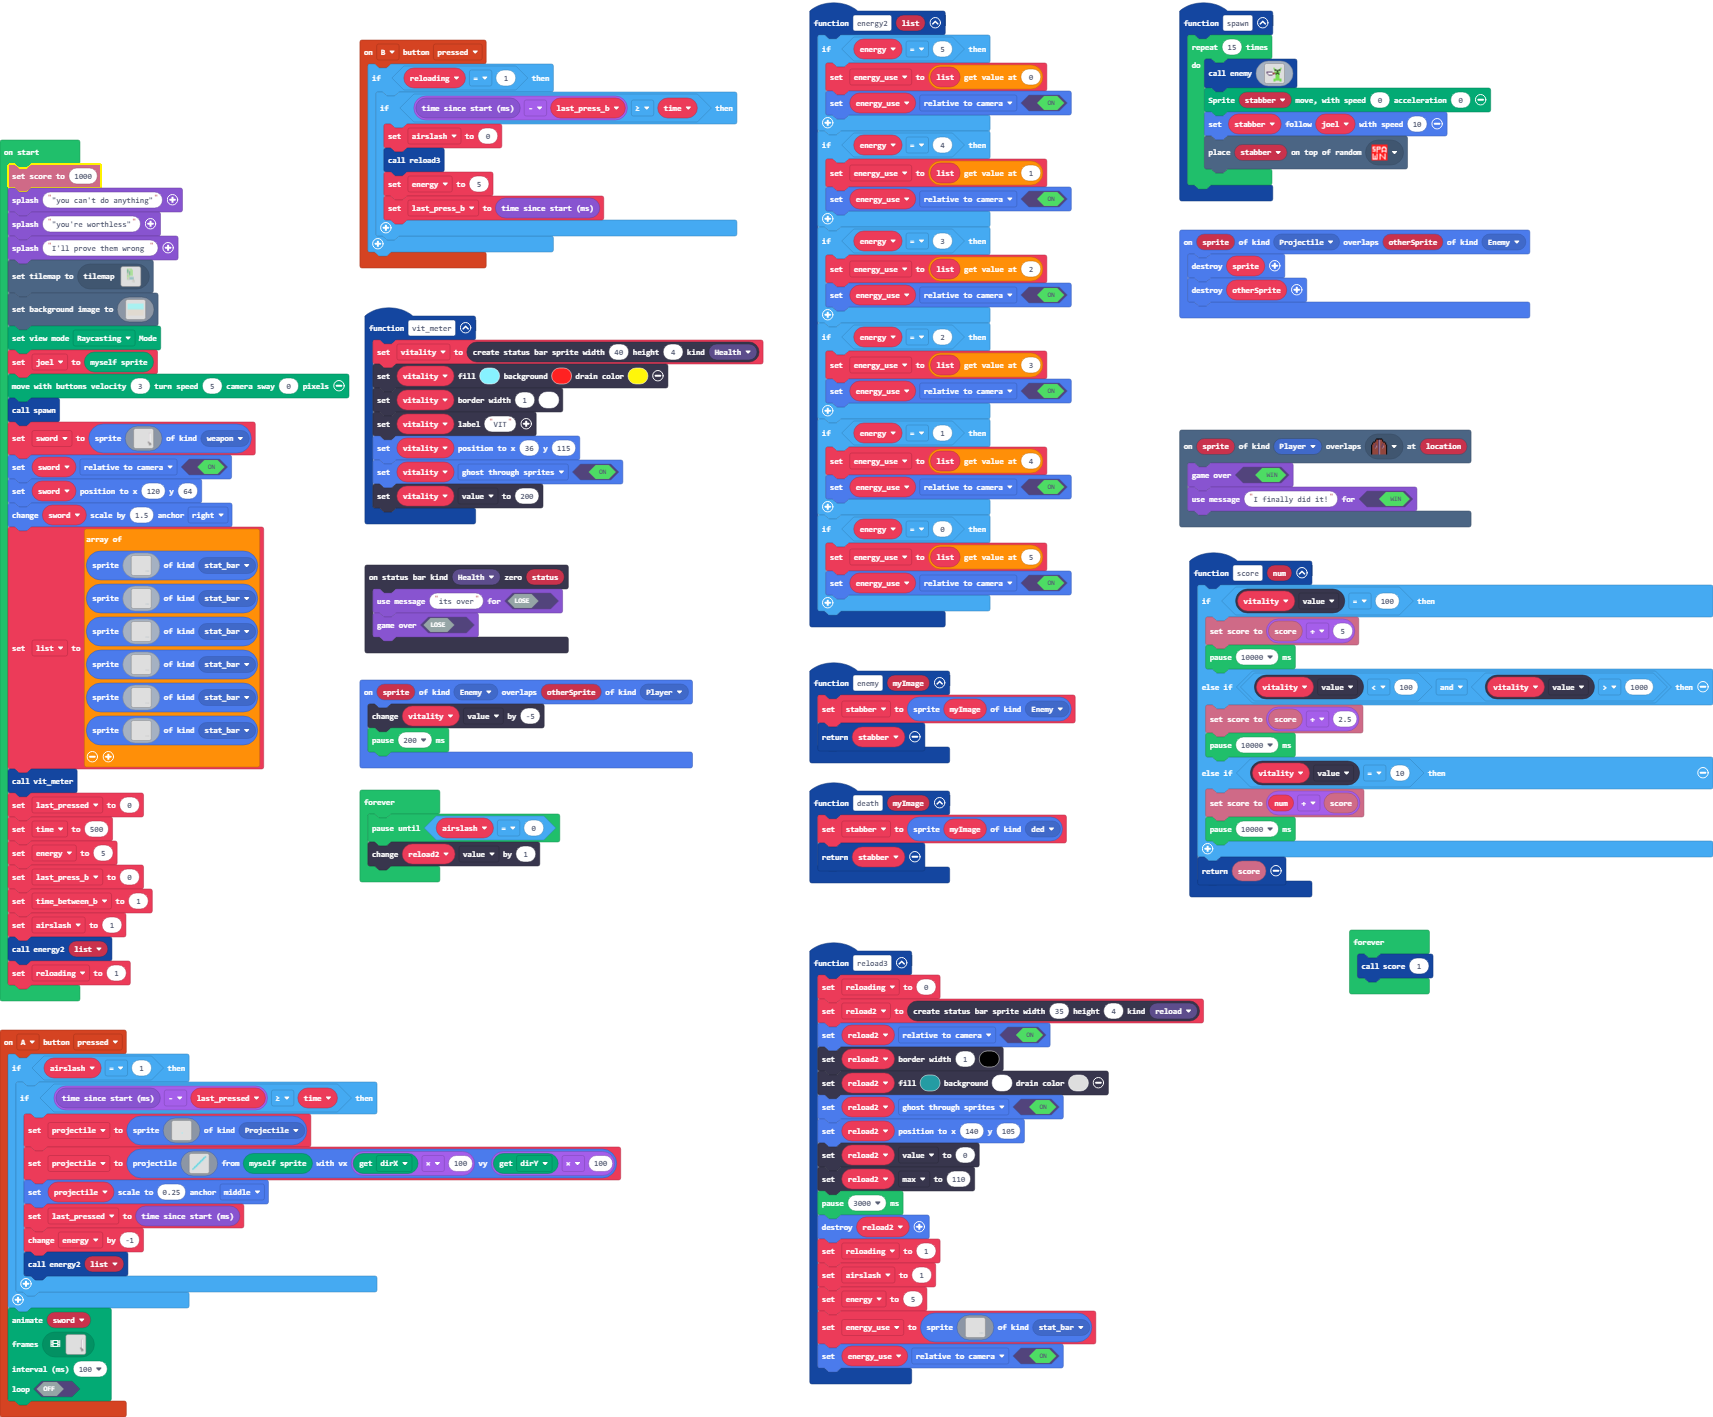
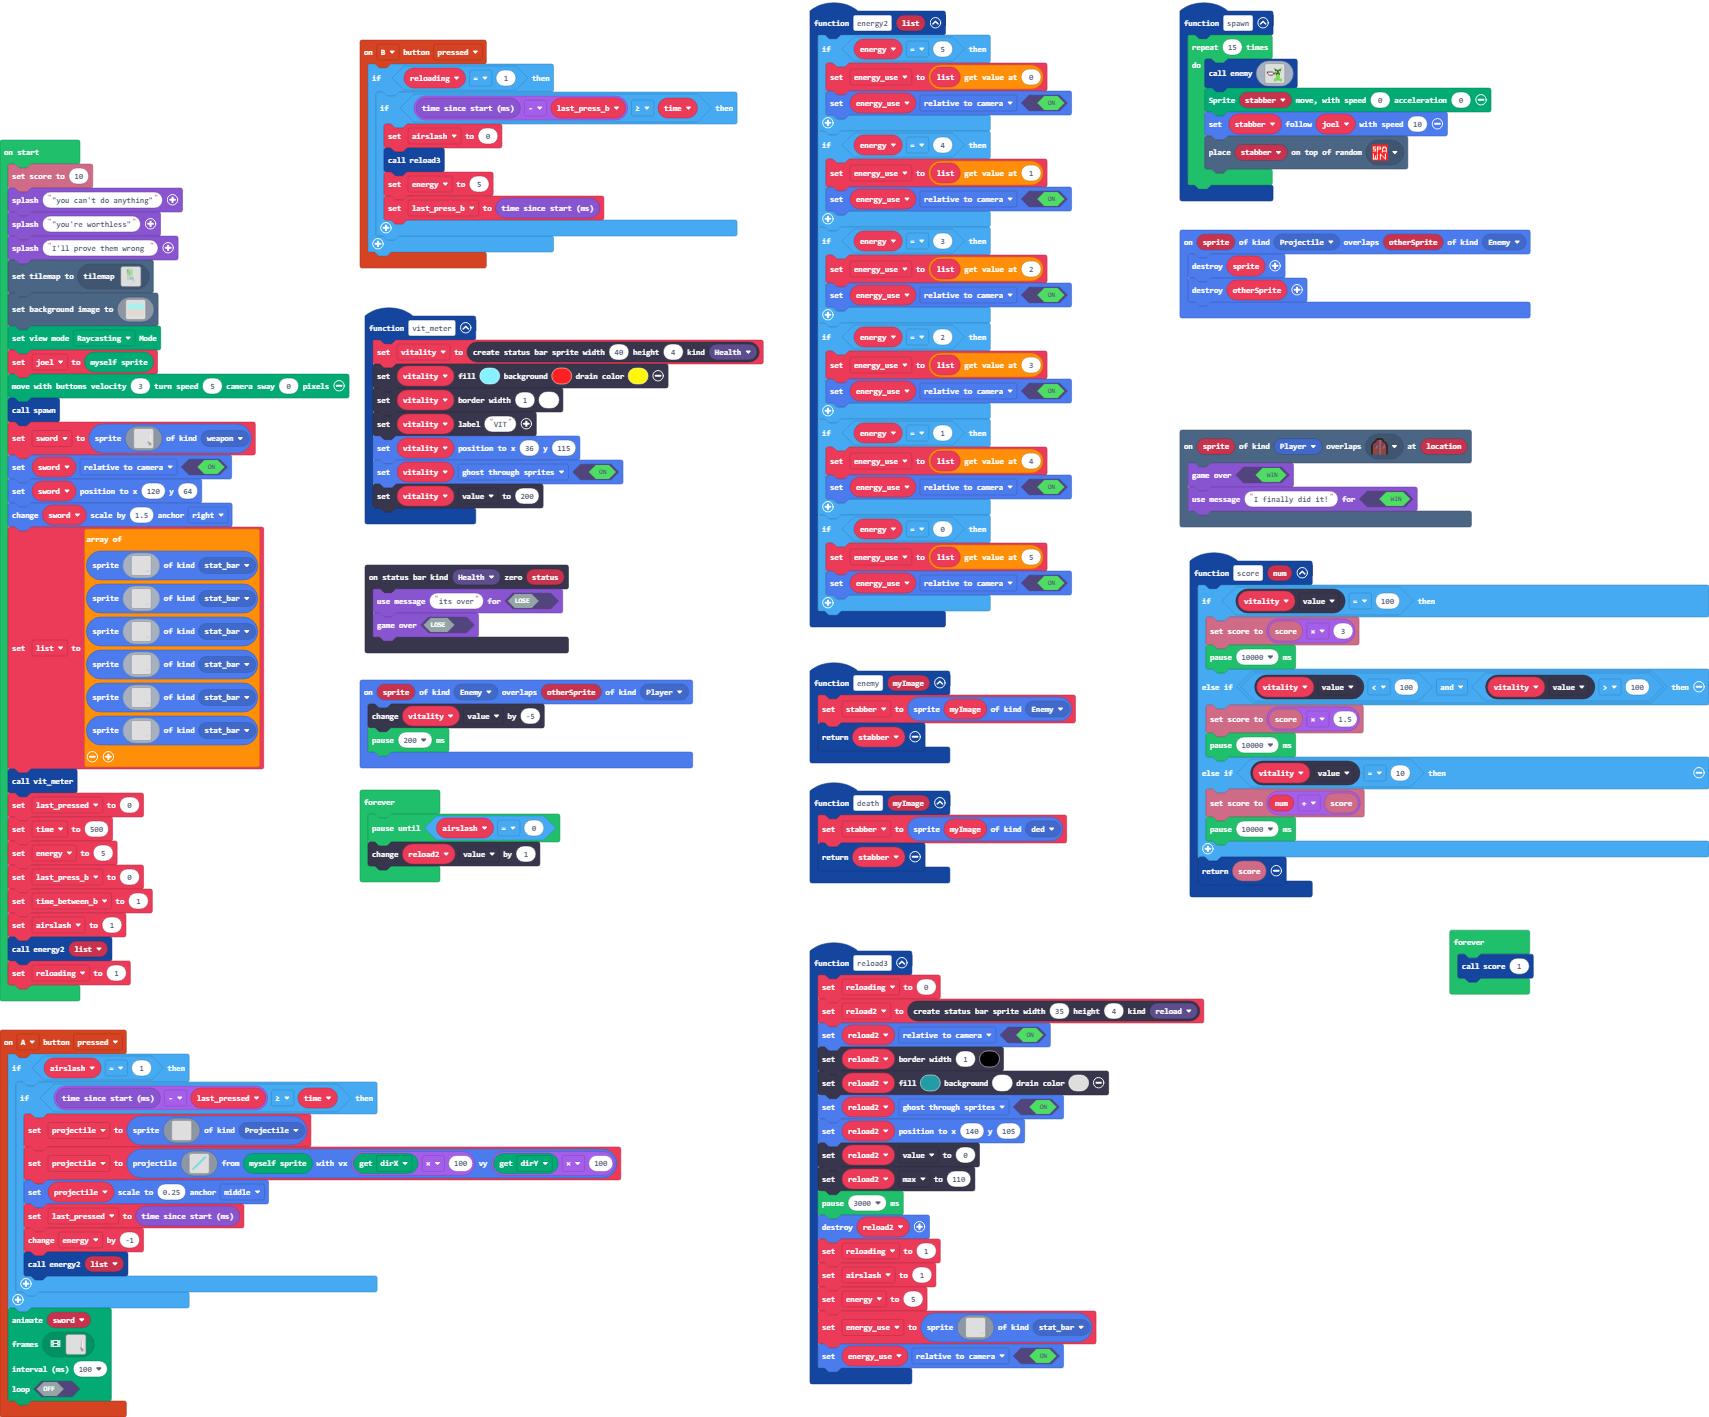
Update main.blocks, main.ts

diff --git a/main.ts b/main.ts
@@ -84,10 +84,10 @@ function death (myImage: Image) {
 }
 function score (num: number) {
     if (vitality.value == 100) {
-        info.setScore(info.score() + 5)
+        info.setScore(info.score() * 3)
         pause(10000)
-    } else if (vitality.value < 100 && vitality.value > 1000) {
-        info.setScore(info.score() + 2.5)
+    } else if (vitality.value < 100 && vitality.value > 100) {
+        info.setScore(info.score() * 1.5)
         pause(10000)
     } else if (vitality.value == 10) {
         info.setScore(num + info.score())
@@ -146,7 +146,7 @@ let last_pressed = 0
 let list: Sprite[] = []
 let sword: Sprite = null
 let joel: Sprite = null
-info.setScore(1000)
+info.setScore(10)
 game.splash("\"you can't do anything\"")
 game.splash("\"you're worthless\"")
 game.splash("I'll prove them wrong ")
